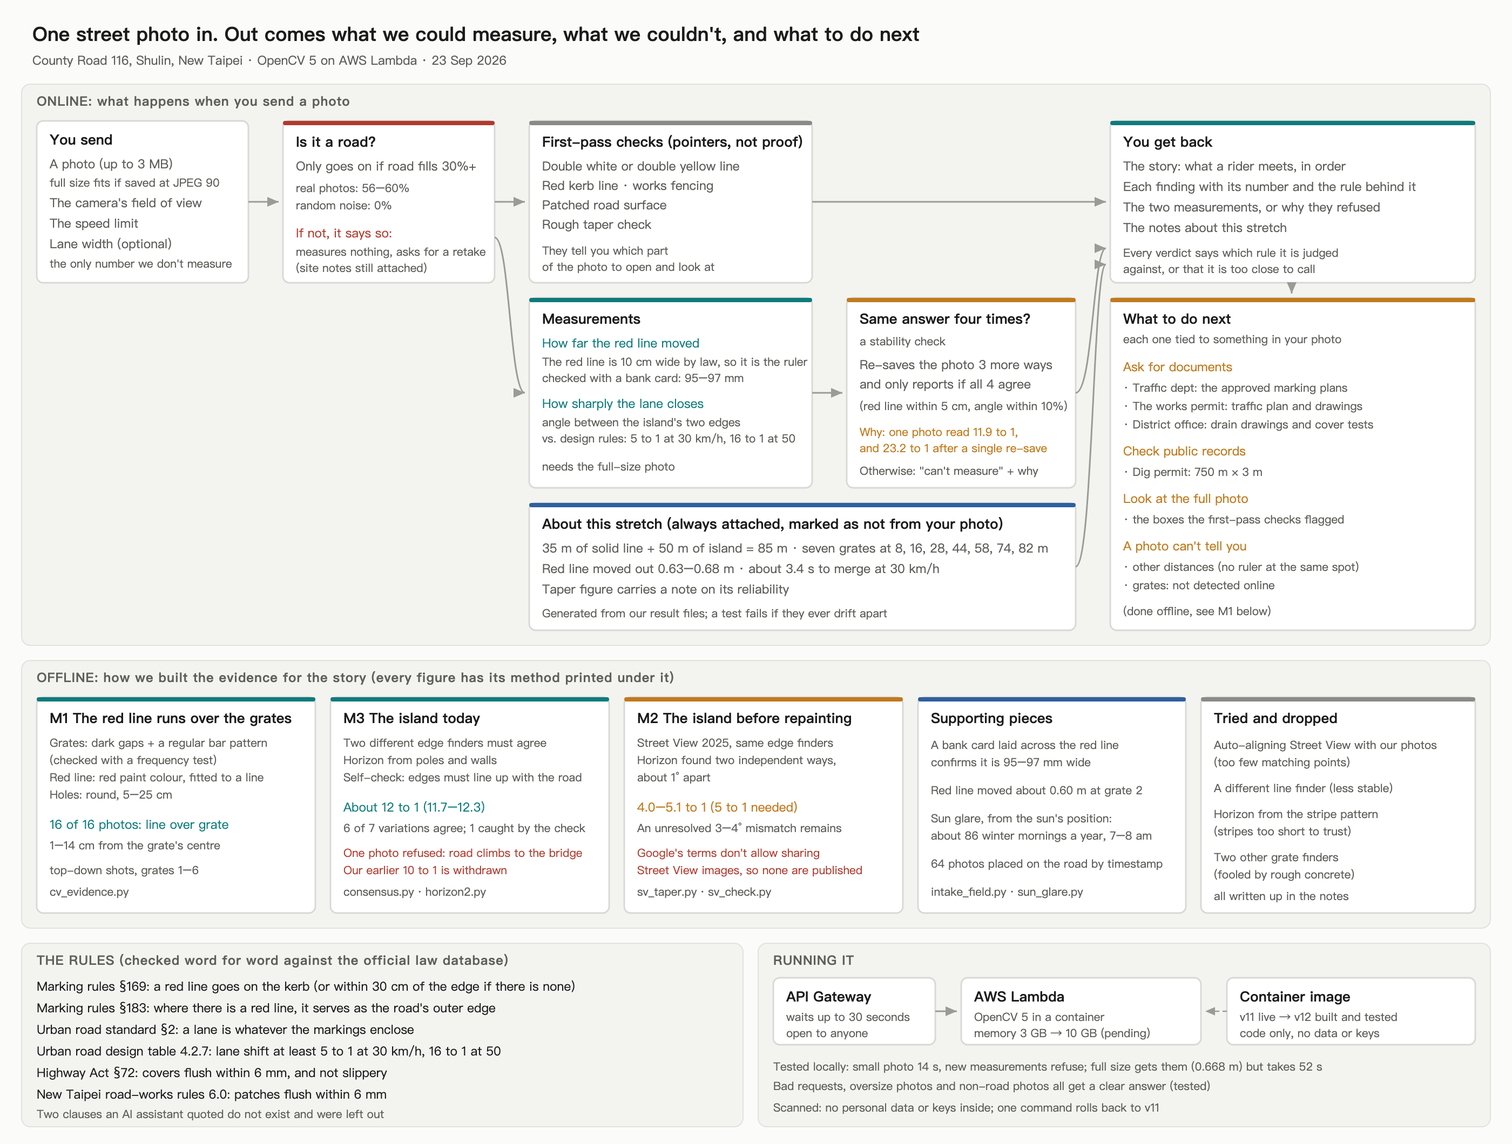
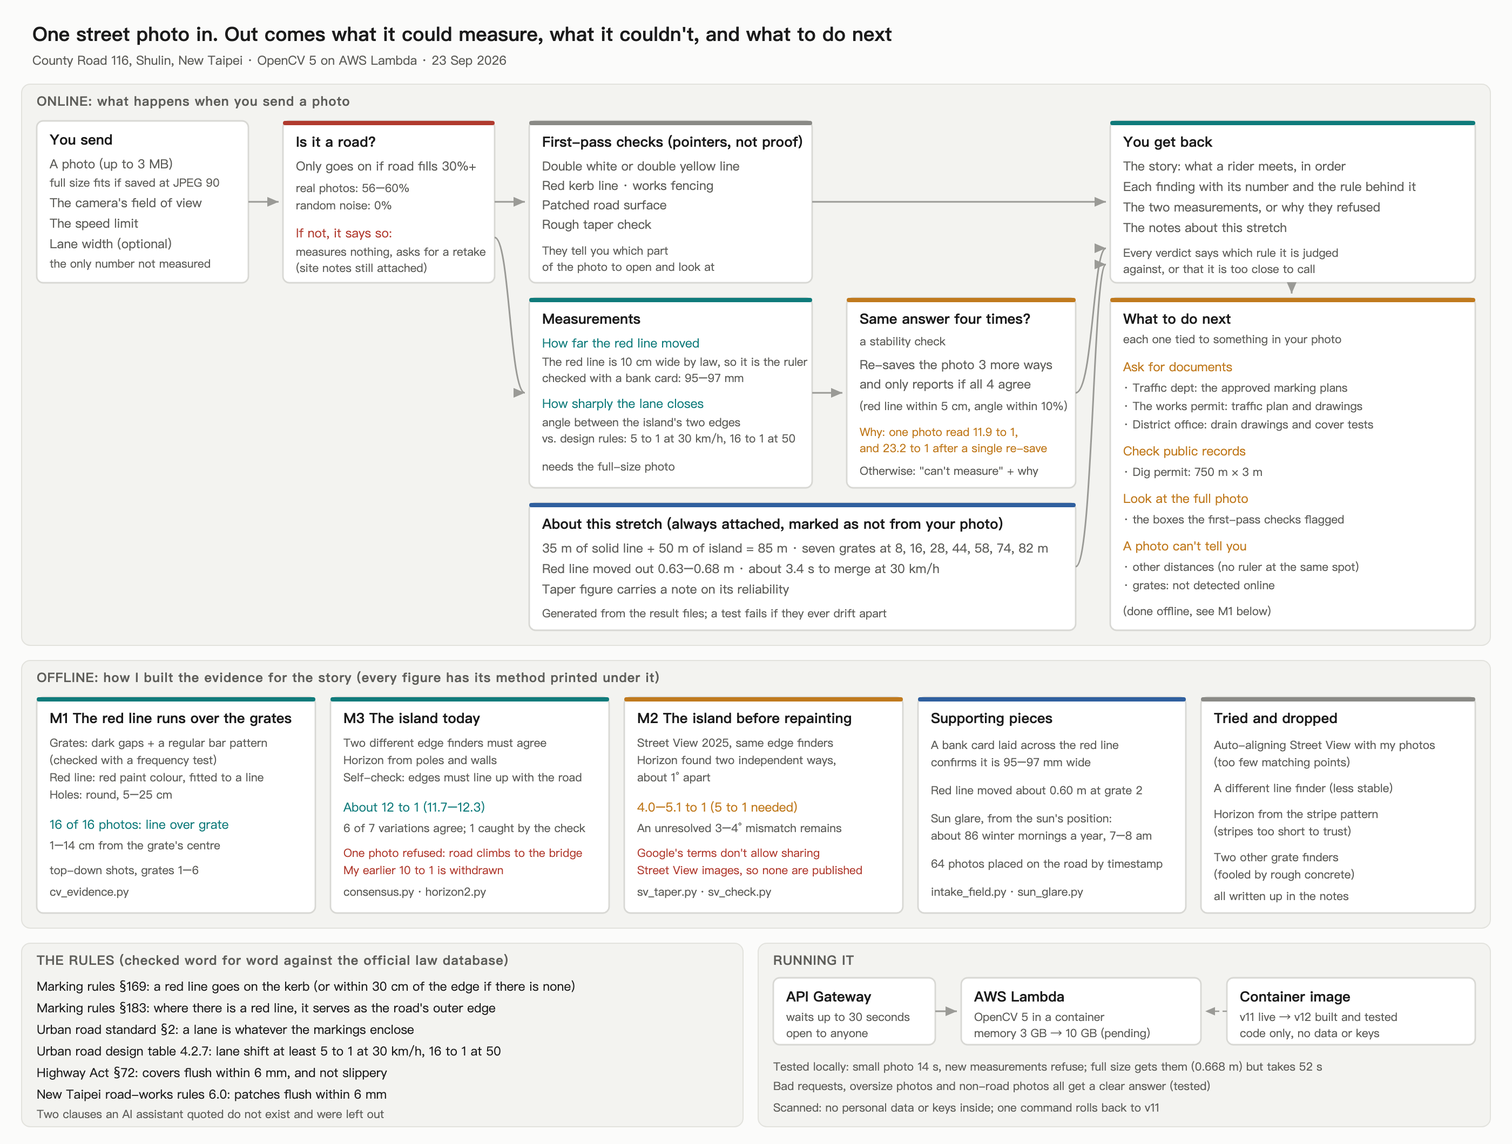
Technical report; README in first person, names actions.py; Dockerfile pins numpy 2.5.3

diff --git a/docs/technical-report.md b/docs/technical-report.md
@@ -1,0 +1,116 @@
+# Technical report
+
+**Seven drain grates in 85 metres: measuring one road's markings from a phone photo, with OpenCV 5 on AWS**
+
+Entry for the OpenCV AI Competition 2026. One author. 23 September 2026.
+
+---
+
+## 1. Problem
+
+On County Road 116 in Shulin, New Taipei, the lane approaching a bridge is squeezed from both sides within 85 metres:
+
+- a double white line (35 m) forbids changing lanes,
+- a painted island (50 m) narrows the lane from the left,
+- on the right, a drain strip with seven steel grates runs the whole way, and in 2026 the red no-stopping line was repainted 0.6 m further out, onto that strip.
+
+None of these is obviously illegal on its own. Each sits near a limit that is written down somewhere: a marking rule, a design table, a statute on manhole covers. Checking any of them today means sending someone with a tape measure. The question this project asks is narrower than "is this road safe": **from ordinary phone photographs, what can be measured against those written limits, how sure can we be, and what should happen next?**
+
+## 2. Users
+
+- **A rider** who uses the road and wants to know whether what they feel can be shown, and what to ask for.
+- **A reviewer at a traffic department** who receives that request and needs numbers with their method and uncertainty, not adjectives.
+
+The output is written for both: a plain-language scenario, itemised findings with the rule behind each, and a list of documents to request.
+
+## 3. Architecture
+
+![Architecture](figures/architecture.png)
+
+**Online** (`aws/handler.py` → `src/marking/situation.py:assess`), on AWS Lambda (arm64 container, `opencv-python-headless==5.0.0.93`) behind an API Gateway HTTP API:
+
+1. **Is it a road?** The road region must cover at least 30% of the frame (real photos 55.5–60.0%, random noise 0.0%). Otherwise the system measures nothing and asks for a retake.
+2. **First-pass checks** (double white/yellow lines, kerbside red line, works fencing, patched surface, a rough taper ensemble). These point to regions worth opening; their counts are not cited as evidence.
+3. **Measurements** (`src/marking/phone.py`): the red-line gap and the island's taper ratio (Section 4).
+4. **Four-encoding gate** (`phone.encoding_probe`): each measurement runs on the photo as received and on JPEG re-encodes at quality 97, 94 and 91, and is reported only if all agree (red line within 5 cm, taper within 10%).
+5. **Site notes**: the published numbers for this stretch are attached to every response, marked as not measured from the photo sent. They are generated from `results/` by `scripts/build_site_dossier.py`; a test fails if they drift.
+6. **Next actions** (`src/marking/actions.py`): which document to request from which office, which box in the photo to open, and what the photo cannot answer. Document requests and "open this box" actions appear only when a finding in the photo calls for them, and each carries that finding. Two notes are always included: what a photo cannot answer, and that grates are not detected online.
+
+**Offline** (`isolation/`): the evidence pipeline behind the story's figures. Every figure made by image recognition has its method printed under it and is indexed in [`materials-2026-09-23.md`](materials-2026-09-23.md).
+
+## 4. Implementation
+
+### 4.1 Red line over the grates (`isolation/field-2026-09-23/cv_evidence.py`)
+
+| Step | OpenCV | Detail |
+|---|---|---|
+| Grate | `morphologyEx` (close 45 px, open 61/151/251 px), `connectedComponentsWithStats`, `minAreaRect` | gap pixels grey < 45 (measured: gaps 10–51, the concrete's darkest tenth 57–92); near-rectangular (fill ≥ 0.75, aspect 0.5–2) |
+| Grate check | numpy FFT on row/column means | bar periodicity peak/mean ≥ 6, at full resolution (an earlier detector inverted this test at one-third resolution) |
+| New red line | `cvtColor` to LAB, `connectedComponentsWithStats`, `fitLine` | a* at least 12 above the frame median; strips touching the frame edge or thinner than 1:6 are the old line and are excluded |
+| Open holes | `findContours`, `minEnclosingCircle` | darkest 6%, circularity > 0.6, diameter 5–25 cm |
+
+Result: in **16 of 16** top-down photos (grates 1–6) the new red line's axis crosses the grate, 1–14 cm from its centre. This needs no scale.
+
+### 4.2 The ruler, and the red-line gap (`src/marking/phone.py:redline_gap`)
+
+A red no-stopping line is 10 cm wide by regulation (§169). The gap from the intact line's inner edge to the worn line's centre is measured with a cross-ratio against the vanishing point of the cross-road direction, using that 10 cm as the ruler. No camera pitch, roll or height is needed. The ruler was checked with an ID-1 card (85.60 mm) laid across the fresh paint: **95–97 mm** (`isolation/field-2026-09-23/card_vs_redline.py`).
+
+Result: **0.63–0.68 m** on three photos of 20 September (F30–F32), **about 0.60 m** at grate 2 on 23 September from top-down shots.
+
+### 4.3 The island's taper (`isolation/taper-recheck/`, `isolation/overlay-2025/`)
+
+The taper ratio is the ground angle between the island's two edges. Two independent recognisers must agree on each edge: outermost white paint per 12 px slice with a RANSAC line, and EDLines (`cv2.ximgproc`), within 1° and 15 px. The horizon comes from the vertical vanishing point (poles, walls). A self-check requires the lane-side edge to meet the horizon at the road's own vanishing point.
+
+| | Ratio | Against 5:1 at 30 km/h (design table 4.2.7) |
+|---|---|---|
+| Before repainting (Street View, June 2025) | 4.0–5.1 : 1 | at or just short of the limit |
+| After (phone, F40, September 2026) | about 12 : 1 (11.7–12.3) | passes |
+
+The before figure was also computed with the horizon from the Street View request's known pitch; the two horizons agree within about 1°. A third, independent route agrees: 12:1 after, with about two thirds of the island painted over (`results/erasure_ratio.json`), implies about 4.3:1 before.
+
+## 5. Evaluation, including what failed
+
+**A published number was withdrawn.** The project first reported the taper as "about 10:1 (9.2–11.9)". On 23 September the measurement was repeated on 13 photos under seven perturbations (three JPEG qualities, three crops). The original method produced a reading on 7 of 91 runs, ranging 5.0–23.2. Drawing what it picked showed why: the two "edges" it measured were mixtures of different painted lines grouped by a shared vanishing point, not the island's two edges (`isolation/taper-recheck/f40_picks.jpg`). The 10:1 is withdrawn. The consensus method in 4.3 replaced it, and the four-encoding gate was added to the endpoint so that a number which moves with a re-save is never reported.
+
+**Refusals are counted, not hidden.** F17 (looking up the bridge ramp) fails the self-check on every perturbation and is refused: the ground there is not a plane. On F40, one of seven perturbations fails the self-check and is dropped.
+
+**Perturbation results** (F40, after repainting): as received 12.1; JPEG 97, 91: 11.8, 11.7; crops of 8, 16, 24 px: 12.3, 12.2, 11.7. One run rejected (JPEG 94: 8.4, self-check off by 29°).
+
+**Other things tried and dropped**, each recorded in the notes: SIFT registration of Street View onto the phone photos (15 inliers of 69; the two views cover different parts of the island), LSD in place of Hough (less stable), the horizon from the stripe pattern (stripes too short), black-hat and background-relative grate finders (fooled by rough concrete).
+
+**Provenance.** `results/figure_registry.json` pins each published figure to the file and key that produced it; `scripts/check_figures.py` reports **73 published figures match their sources**. Test suite: **207 passed**.
+
+**What is not measured.** The step between grate and road and its skid resistance (the Highway Act §72 sets 6 mm and a skid-resistance floor; a straightedge and a pendulum tester are needed on site), anything at night, and the lane width a scooter can actually use. No figure has field-measured ground truth; the card is the only physical reference.
+
+## 6. Deployment and reproduction
+
+```sh
+pip install -r requirements.txt                                    # opencv-python 5.0.0.93, numpy 2.4.4, scipy 1.17.1
+python3 -B -m pytest -q -p no:cacheprovider                        # 207 tests
+python3 -B scripts/check_figures.py                                # 73 figures vs. their sources
+AWS_REGION=ap-southeast-2 ACCOUNT=<account> ./aws/build-and-push.sh v12
+```
+
+The container pins `opencv-python-headless==5.0.0.93` and `numpy==2.5.3` (`aws/Dockerfile`). The local interpreter that produced `results/` has numpy 2.4.4; the container was tested separately with 2.5.3 (below).
+
+**Measured in the v12 container** (arm64, 2 CPUs, locally): a 2000 px photo takes 14.3 s and the new measurements refuse (they need full resolution); a full-resolution photo (JPEG 90, 2.2 MB) takes 52.5 s and returns the red-line gap 0.668 m on F31. That exceeds API Gateway's 30 s limit, so the deployment raises Lambda memory to 10 GB (more vCPUs). Error paths return clear answers: malformed JSON or a missing photo 400, over 3 MB 413, a non-road photo `NOT_A_ROAD_PHOTOGRAPH`. Status of the live function: see [`deployment.md`](deployment.md).
+
+## 7. Regulations used
+
+Quoted word for word from the national law database in [`evidence.md`](evidence.md):
+
+- Road Traffic Signs, Markings and Signals Rules §169 (red line on the kerb; 10 cm wide), §183 (a red line stands in for the road edge line), §167 (no lane change)
+- Urban Road and Ancillary Works Design Standard §2(1) (a lane is what markings delimit)
+- Urban Road Design Specification, table 4.2.7 (lane shift 5:1 at 30 km/h, 16:1 at 50 km/h)
+- Highway Act §72(4) (covers flush within ±0.6 cm on a 3 m straightedge; skid resistance not below the ministry's standard)
+- New Taipei road excavation review rules 6.0 (patch joints ±0.6 cm)
+
+Two clauses quoted by an AI assistant during this work (Design Standard §14 and §16 on gutters and flush covers) do not exist in the official text and are not used.
+
+## 8. Limitations and data rights
+
+- One road, one author, 106 photos. The method is general; the evidence is local.
+- The before-repainting taper was measured on Google Street View imagery. Google's terms prohibit sharing screenshots or data derived from Street View, so no Street View image is in this repository; the published schematic is drawn from the project's own measurements.
+- Five photos have licence plates blurred; no photo carries a GPS fix.
+- The taper after repainting rests on one photo (F40).
+- Which red line is official, and which design speed applies, are questions for documents. The system's last step is to request them.

diff --git a/README.md b/README.md
@@ -20,7 +20,7 @@ This project turns that feeling into numbers anyone can check.
 
 **The red line moved onto the drains.** There are two red no-stopping lines. The old one runs along the edge of the asphalt. The new one is painted 0.60–0.68 m further out, on the concrete drain strip, straight across the grates. Taiwan's marking rules say a red line belongs on the kerb (§169), that it marks the outer edge of the road (§183), and that a lane is whatever the markings enclose (Urban Road Standard §2). So the new line puts the drains inside the road.
 
-![The new red line crosses every grate we photographed](docs/figures/red-line-over-grates.jpg)
+![The new red line crosses every grate I photographed](docs/figures/red-line-over-grates.jpg)
 
 In 16 out of 16 top-down photos, OpenCV finds the new red line running across a grate, 1–14 cm from its centre. That result needs no scale at all.
 
@@ -28,11 +28,11 @@ In 16 out of 16 top-down photos, OpenCV finds the new red line running across a 
 
 **The island got better.** At 30 km/h, Taiwan's urban road design rules ask for a lane shift of at least 5 to 1. Before the repainting, the island closed at about 4 to 5 to 1: right at the limit. Today it's about 12 to 1, which passes. The rider's own words were: "it's better since they painted over it."
 
-**Our first number was wrong, and we withdrew it.** We originally published 10 to 1. When we drew the lines the program had actually picked, they weren't the island's two edges at all, and re-saving the photo once turned 11.9 into 23.2. Now two independent edge finders have to agree, and every measurement is repeated on four versions of the image before it's reported.
+**My first number was wrong, and I withdrew it.** I originally published 10 to 1. When I drew the lines the program had actually picked, they weren't the island's two edges at all, and re-saving the photo once turned 11.9 into 23.2. Now two independent edge finders have to agree, and every measurement is repeated on four versions of the image before it's reported.
 
 ![The island today: both edges confirmed by two independent tools, horizon from poles and walls](docs/figures/taper-2026-after-erasure.jpg)
 
-**The rest of the stack.** On winter mornings (mid-November to the end of January, 7–8 am) the low sun sits right in your eyes heading for the bridge. The Highway Act (§72) asks for covers that sit flush to within 6 mm and aren't slippery. We haven't measured either the step or the grip. That's written down as a gap, not claimed.
+**The rest of the stack.** On winter mornings (mid-November to the end of January, 7–8 am) the low sun sits right in your eyes heading for the bridge. The Highway Act (§72) asks for covers that sit flush to within 6 mm and aren't slippery. I haven't measured either the step or the grip. That's written down as a gap, not claimed.
 
 The full story, with a source for every number: [`docs/story-116.md`](docs/story-116.md) (Chinese). Every figure made by image recognition has its method printed underneath and is indexed in [`docs/materials-2026-09-23.md`](docs/materials-2026-09-23.md).
 
@@ -40,7 +40,7 @@ The full story, with a source for every number: [`docs/story-116.md`](docs/story
 
 ![Architecture](docs/figures/architecture.png)
 
-Send one street photo. It checks the photo actually shows a road, runs its measurements, and only reports a number if it holds across four versions of the image. It tells you what it measured, what it couldn't, and why. Then it tells you what to do next: which document to request from which office, tied to what it found in your photo.
+Send one street photo. It checks the photo actually shows a road, runs its measurements, and only reports a number if it holds across four versions of the image. It tells you what it measured, what it couldn't, and why. Then it tells you what to do next: which document to request from which office, tied to what it found in your photo. That step is `src/marking/actions.py`: a document request appears only when something in your photo calls for it, and it says what that was.
 
 It runs on AWS Lambda (arm64) with OpenCV 5.0.0.
 
@@ -50,7 +50,7 @@ pip install -r requirements.txt
 /opt/anaconda3/bin/python3 -B scripts/check_figures.py            # every published number vs. its source
 ```
 
-Deployment: [`docs/deployment.md`](docs/deployment.md). OpenCV calls behind each piece of evidence: [`docs/opencv5.md`](docs/opencv5.md).
+Technical report: [`docs/technical-report.md`](docs/technical-report.md). Deployment: [`docs/deployment.md`](docs/deployment.md). OpenCV calls behind each piece of evidence: [`docs/opencv5.md`](docs/opencv5.md).
 
 ## What's in here
 
@@ -62,13 +62,13 @@ Deployment: [`docs/deployment.md`](docs/deployment.md). OpenCV calls behind each
 | `isolation/` | Experiments, re-checks, and the methods that didn't work |
 | `docs/evidence.md` | The regulations, quoted word for word from the official database |
 
-## What we can't tell you yet
+## What I can't tell you yet
 
 - How far the grates sit below the road, or how slippery they are when wet. That needs a 3 m straightedge and a skid tester on site.
 - Anything at night. There are no night photos.
 - How much of the lane a scooter can really use.
 - Which red line is the official one, and what design speed applies. Those answers are in documents, and the system's last step is to ask for them.
 
-Google Street View images were used to measure the island before it was repainted. Google's terms don't allow sharing them, so none are in this repository; the schematic above is drawn from our own measurements.
+Google Street View images were used to measure the island before it was repainted. Google's terms don't allow sharing them, so none are in this repository; the schematic above is drawn from my own measurements.
 
 MIT licence. Photos by the author.

diff --git a/video/script_en.md b/video/script_en.md
@@ -9,11 +9,11 @@ No Google Street View imagery on any slide.
 | 2 | 0:15–0:35 | Early-morning photo, grate 3 (`redline-gutter-kerb-P22.jpg`) | This is the right-hand side. The old red line sits at the edge of the asphalt. The new one is painted on the drain strip. The kerb is further out. |
 | 3 | 0:35–0:55 | Solo — one rider, one smartphone | The team is just me: a rider who uses this road every day, with a smartphone. I'm not here to say who broke the rules. I turn what a rider feels into numbers anyone can check. |
 | 4 | 0:55–1:25 | Schematic (`schematic-85m.png`) | In these 85 metres: 35 m of solid line where you can't change lanes, then 50 m where the painted island narrows the lane, and seven drain grates on your right. |
-| 5 | 1:25–1:55 | Recognition: red line over grates (`red-line-over-grates.jpg`) | We used OpenCV to find the grates and the red line. In 16 out of 16 top-down photos, the new red line runs straight across a grate. |
+| 5 | 1:25–1:55 | Recognition: red line over grates (`red-line-over-grates.jpg`) | I used OpenCV to find the grates and the red line. In 16 out of 16 top-down photos, the new red line runs straight across a grate. |
 | 6 | 1:55–2:15 | Rules card: §169, §183, Urban Road Standard §2 | The rules say a red line goes on the kerb, that it marks the outer edge of the road, and that a lane is whatever the markings enclose. So the new line puts the drain strip inside the road. |
-| 7 | 2:15–2:40 | Card-as-ruler photo (grate 7) | Our ruler is the red line itself: 10 cm wide by law. We checked it with a real card and measured 95 to 97 mm. The red line moved out by about 0.6 m. |
+| 7 | 2:15–2:40 | Card-as-ruler photo (grate 7) | My ruler is the red line itself: 10 cm wide by law. I checked it with a real card and measured 95 to 97 mm. The red line moved out by about 0.6 m. |
 | 8 | 2:40–3:10 | Taper after repainting (`taper-2026-after-erasure.jpg`) + number card | How sharply does the lane close? At 30 km/h the rules ask for at least 5 to 1. Before the repainting it was about 4 to 5 to 1, right at the limit. Now it's about 12 to 1, which passes. The repainting made it better. |
-| 9 | 3:10–3:30 | Withdrawn: why our 10 to 1 was wrong (`f40_picks.jpg`) | We first published 10 to 1. When we checked again, we found the program had picked the wrong lines, and the answer changed with image quality. We withdrew it. Now two different tools have to agree before we use a number. |
+| 9 | 3:10–3:30 | Withdrawn: why my 10 to 1 was wrong (`f40_picks.jpg`) | I first published 10 to 1. When I checked again, I found the program had picked the wrong lines, and the answer changed with image quality. I withdrew it. Now two different tools have to agree before I use a number. |
 | 10 | 3:30–3:55 | Architecture (`architecture.png`) | How it works: upload one photo. It checks the photo shows a road, only reports a measurement if it holds across four versions of the image, and tells you which document to request next. |
 | 11 | 3:55–4:15 | Result card: API response | It runs on AWS with OpenCV 5. It tells you what it measured, what it couldn't, and why. |
 | 12 | 4:15–4:40 | The stack: left, right, underfoot, glare | Each problem on its own sits right at the limit. But they all land on the same 85 metres: no crossing on the left, grates on the right, the lane narrowing, and on winter mornings, the sun in your eyes. |

diff --git a/NEXT.md b/NEXT.md
@@ -25,7 +25,8 @@
    **部署卡兩件,都要使用者決定**:(a) 新量測只在原解析度站得住(2000 px 全拒答),原檔 5–10 MB > 3 MB 上限(Lambda 同步 6 MB);(b) 原解析度 assess 本機 35–38 s > 30 s。
    **故事數字要重驗**:`taper_phone` 的 10:1 對編碼不穩 —— F40 原檔 11.9,品質 97 重編一次 23.2(跨過 16:1),F17 重編即拒答。endpoint 已加四編碼一致才回報的閘;故事裡的 10:1 還沒改,待使用者決定。
    原本這條:**endpoint 沒接新東西**:`assess()`/`aws/handler.py` 還跑舊四偵測器(85 s vs 30 s 逾時,G14)。要把 redline gap、taper、extent、merge window 接成輸出 + `actions.py` 的 REQUEST_DOCUMENT。**這是比賽最該做的一件。**
-3. 雲端仍 v11;本地已推 GitHub(PRIVATE,`fca9f20`),redeploy 前先確認本地 ⊇ GitHub。
+3. **2026-09-23 公開 repo**:`jiarong0423/jiarong0423-road-marking-conformity`(PUBLIC),單一 commit `e781c56` = 本地 `c2310ba` 的樹;舊 PRIVATE repo 使用者已刪。之後更新用 `git commit-tree` 疊在 public-release 上再推 `public` remote,**不推本地完整歷史**。街景衍生圖不公開(Google 條款),本地在 `output/streetview-derived/`。
+   雲端仍 v11;v12 已建置測試,部署三指令待使用者在終端機執行。
 4. 影片沒拍;架構圖是上一版(缺兩把尺/消失點/拒答那條線);評分權重未查。
 5. 斜紋角度自動算:五種抽線 + 結構張量第一版都不收斂(`isolation/DETECTORS.md` 補四~七);外部建議 A/C/Se 2000 在 `isolation/EXTERNAL_STRIPE.md`。**不是故事需要的**,有空再做;槽化線不再進場拍。
 6. 三份文件要申請(故事結尾列了):改繪核定函及劃設圖說、許可 1140874494 交維計畫、側溝竣工圖與蓋板檢驗報告。

diff --git a/docs/competition.md b/docs/competition.md
@@ -673,7 +673,7 @@ the claim is judgeable at all.
 | requirement | state | what is missing |
 |---|---|---|
 | Technical report: problem, users, architecture, implementation, deployment, evaluation | **partial** | this file plus `docs/` covers all six; no single reader-facing report exists, and `docs/thesis.md` contradicts the registry (§2) |
-| Public or judge-accessible repository | **yes, stale** | public at `github.com/jiarong0423/road-marking-conformity`; `origin/main` at `a429e8c`, five commits behind local `a5e6f24`, missing the photographs, the licence and the `carriageway()` fix |
+| Public or judge-accessible repository | **yes (2026-09-23)**: `github.com/jiarong0423/jiarong0423-road-marking-conformity`, fresh single-commit history `e781c56` = local tree `c2310ba`; old repo deleted by owner. Superseded note follows: | public at `github.com/jiarong0423/road-marking-conformity`; `origin/main` at `a429e8c`, five commits behind local `a5e6f24`, missing the photographs, the licence and the `carriageway()` fix |
 | Pinned dependencies | **partial** | `requirements.txt` fully pinned; `aws/Dockerfile` leaves `numpy>=2.0` unpinned |
 | Clear instructions | **partial** | `README.md` install, `docs/deployment.md` rebuild; `docs/deployment.md` is stale on memory size and image tag |
 | Architecture diagram showing OpenCV 5 and AWS components | **yes, as of this file** | §1; it was absent from the repository before today |
